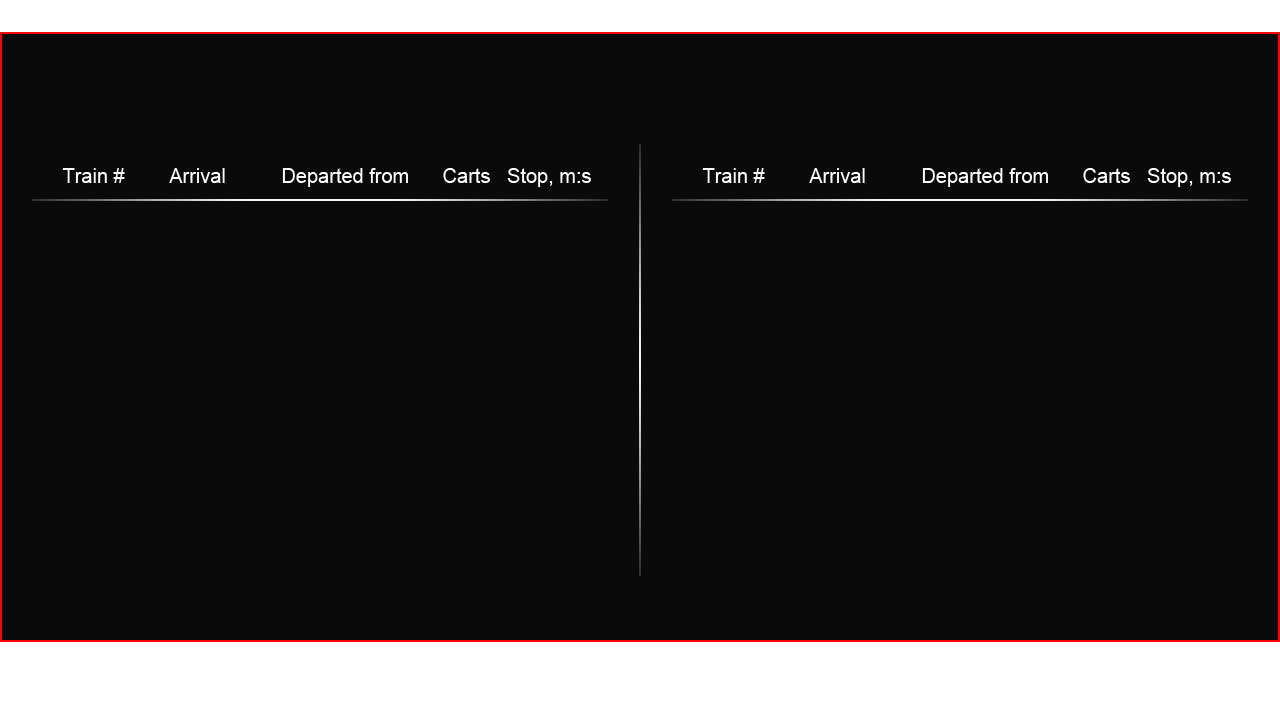
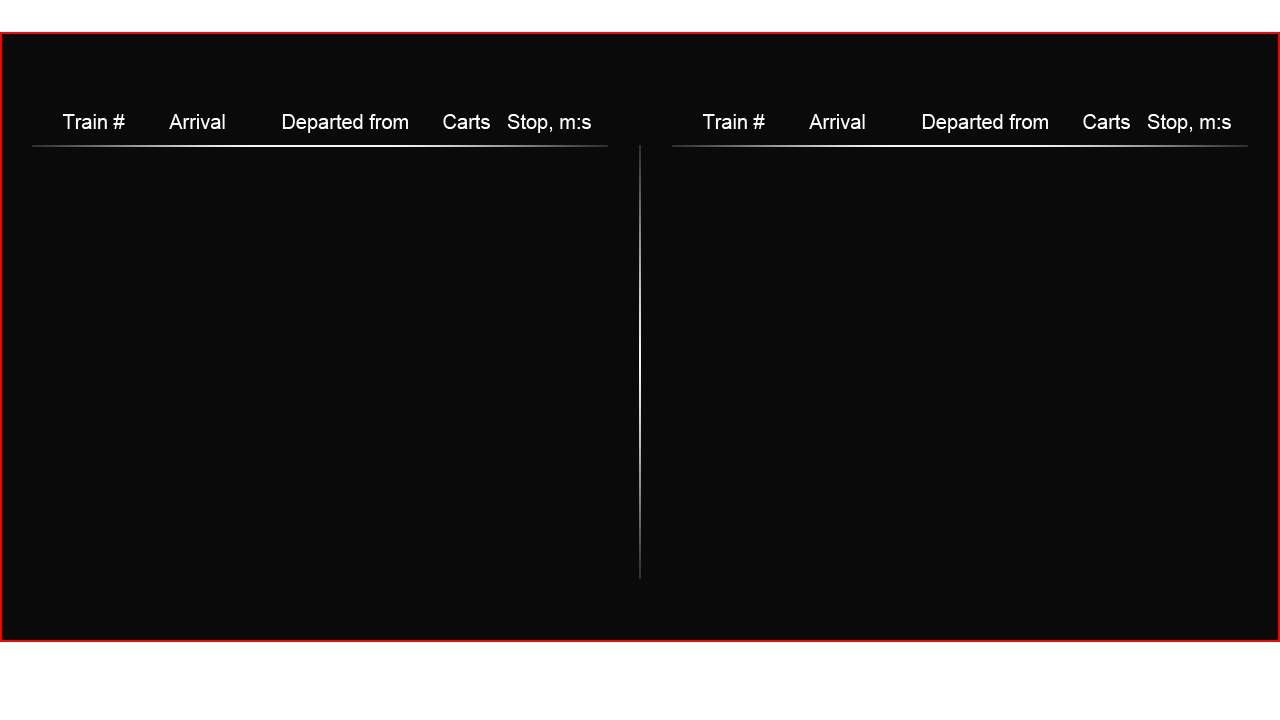
optimized schedule and made it larger, 32 rows

diff --git a/scheduler.py b/scheduler.py
@@ -133,41 +133,33 @@ class Scheduler(GameObject):
             if self.background_sprite.opacity < 255:
                 self.background_sprite.opacity += 15
 
-            for i in range(min(len(self.base_schedule), 26)):
+            for i in range(min(len(self.base_schedule), 32)):
                 if self.base_schedule[i][1] < self.game_time.epoch_timestamp + 14400 \
-                        and len(self.base_schedule_sprites) < (i + 1) * 5:
-                    self.base_schedule_sprites.append(Label('{0:0>6}'.format(self.base_schedule[i][0]),
+                        and len(self.base_schedule_sprites) < (i + 1) * 3:
+                    self.base_schedule_sprites.append(Label('{0:0>6}   {1:0>2} : {2:0>2}'
+                                                            .format(self.base_schedule[i][0],
+                                                                    (self.base_schedule[i][1] // 14400 + 12) % 24,
+                                                                    (self.base_schedule[i][1] // 240) % 60),
                                                             font_name='Perfo', bold=True,
                                                             font_size=18, color=self.c.day_text_color,
-                                                            x=94 + 640 * (i // 13), y=501 - (i % 13) * 27,
+                                                            x=145 + 640 * (i // 16), y=555 - (i % 16) * 27,
                                                             anchor_x='center', anchor_y='center', batch=self.batch,
                                                             group=self.text_group))
-                    self.base_schedule_sprites.append(Label('{0:0>2} : {1:0>2}'
-                                                            .format((self.base_schedule[i][1] // 14400 + 12) % 24,
-                                                                    (self.base_schedule[i][1] // 240) % 60),
-                                                            font_name='Perfo', bold=True, font_size=18,
-                                                            color=self.c.day_text_color, x=200 + 640 * (i // 13),
-                                                            y=501 - (i % 13) * 27, anchor_x='center', anchor_y='center',
-                                                            batch=self.batch, group=self.text_group))
                     self.base_schedule_sprites.append(Label(self.departure_text[self.base_schedule[i][2]],
                                                             font_name='Perfo', bold=True,
                                                             font_size=18, color=self.c.day_text_color,
-                                                            x=346 + 640 * (i // 13), y=501 - (i % 13) * 27,
+                                                            x=346 + 640 * (i // 16), y=555 - (i % 16) * 27,
                                                             anchor_x='center', anchor_y='center', batch=self.batch,
                                                             group=self.text_group))
-                    self.base_schedule_sprites.append(Label('{0:0>2}'.format(self.base_schedule[i][4]),
+                    self.base_schedule_sprites.append(Label('{0:0>2}   {1:0>2} : {2:0>2}'
+                                                            .format(self.base_schedule[i][4],
+                                                                    self.base_schedule[i][5] // 240,
+                                                                    (self.base_schedule[i][5] // 4) % 60),
                                                             font_name='Perfo', bold=True,
                                                             font_size=18, color=self.c.day_text_color,
-                                                            x=470 + 640 * (i // 13), y=501 - (i % 13) * 27,
+                                                            x=522 + 640 * (i // 16), y=555 - (i % 16) * 27,
                                                             anchor_x='center', anchor_y='center', batch=self.batch,
                                                             group=self.text_group))
-                    self.base_schedule_sprites.append(Label('{0:0>2} : {1:0>2}'
-                                                            .format(self.base_schedule[i][5] // 240,
-                                                                    (self.base_schedule[i][5] // 4) % 60),
-                                                            font_name='Perfo', bold=True, font_size=18,
-                                                            color=self.c.day_text_color, x=550 + 640 * (i // 13),
-                                                            y=501 - (i % 13) * 27, anchor_x='center', anchor_y='center',
-                                                            batch=self.batch, group=self.text_group))
                     break
         else:
             if self.background_sprite.opacity > 0:
@@ -186,21 +178,15 @@ class Scheduler(GameObject):
 
     @_schedule_board_is_activated
     def adjust_schedule_on_remove(self):
-        if len(self.base_schedule_sprites) > 5:
-            for i in range(len(self.base_schedule_sprites) // 5 - 1):
-                self.base_schedule_sprites[i * 5].text = self.base_schedule_sprites[(i + 1) * 5].text
-                self.base_schedule_sprites[i * 5 + 1].text = self.base_schedule_sprites[(i + 1) * 5 + 1].text
-                self.base_schedule_sprites[i * 5 + 2].text = self.base_schedule_sprites[(i + 1) * 5 + 2].text
-                self.base_schedule_sprites[i * 5 + 3].text = self.base_schedule_sprites[(i + 1) * 5 + 3].text
-                self.base_schedule_sprites[i * 5 + 4].text = self.base_schedule_sprites[(i + 1) * 5 + 4].text
+        if len(self.base_schedule_sprites) > 3:
+            for i in range(len(self.base_schedule_sprites) // 3 - 1):
+                self.base_schedule_sprites[i * 3].text = self.base_schedule_sprites[(i + 1) * 3].text
+                self.base_schedule_sprites[i * 3 + 1].text = self.base_schedule_sprites[(i + 1) * 3 + 1].text
+                self.base_schedule_sprites[i * 3 + 2].text = self.base_schedule_sprites[(i + 1) * 3 + 2].text
 
-            self.base_schedule_sprites[-5].delete()
-            self.base_schedule_sprites[-4].delete()
             self.base_schedule_sprites[-3].delete()
             self.base_schedule_sprites[-2].delete()
             self.base_schedule_sprites[-1].delete()
-            self.base_schedule_sprites.pop(-5)
-            self.base_schedule_sprites.pop(-4)
             self.base_schedule_sprites.pop(-3)
             self.base_schedule_sprites.pop(-2)
             self.base_schedule_sprites.pop(-1)
